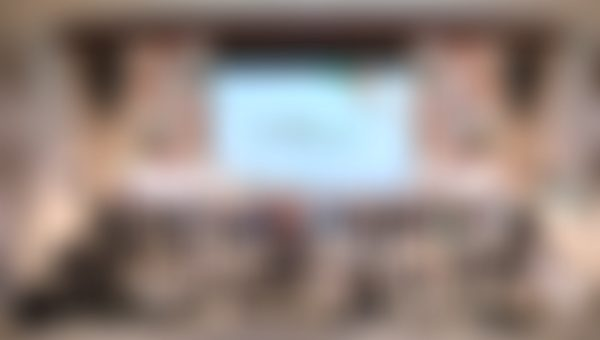
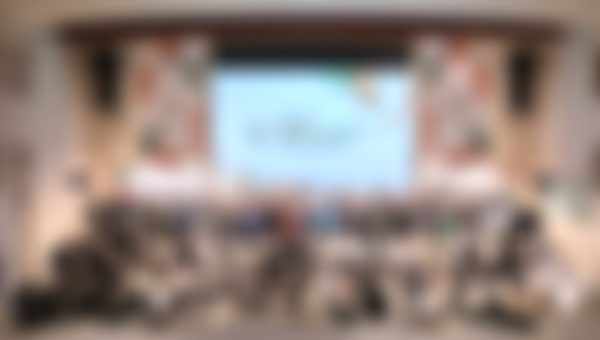
Feat(Views): Sharpen plan card decorative photos and swap SPOSAD photo
1. Lower the baked blur sigma from 16 to 10 across the nine decorative photos.
2. Reduce the mobile static star blur from 8px to 5px to match.
3. Replace the SPOSAD top-right decorative photo with the new event photo.

diff --git a/apps/frontend/src/components/public/organisms/PlanCarousel/PlanCarousel.tsx b/apps/frontend/src/components/public/organisms/PlanCarousel/PlanCarousel.tsx
@@ -193,7 +193,7 @@ export function PlanCardWithStars({
                   clipPath: STAR_CLIP,
                   // 霧化透出：模糊 + 降彩度提亮 + 半透明，輕透融入卡片底下（與桌機
                   // 預模糊圖的淡彩外觀一致，不濃深）。
-                  filter: 'blur(8px) saturate(0.6) brightness(1.15)',
+                  filter: 'blur(5px) saturate(0.6) brightness(1.15)',
                   opacity: 0.55,
                   pointerEvents: 'none',
                   zIndex: 0,
